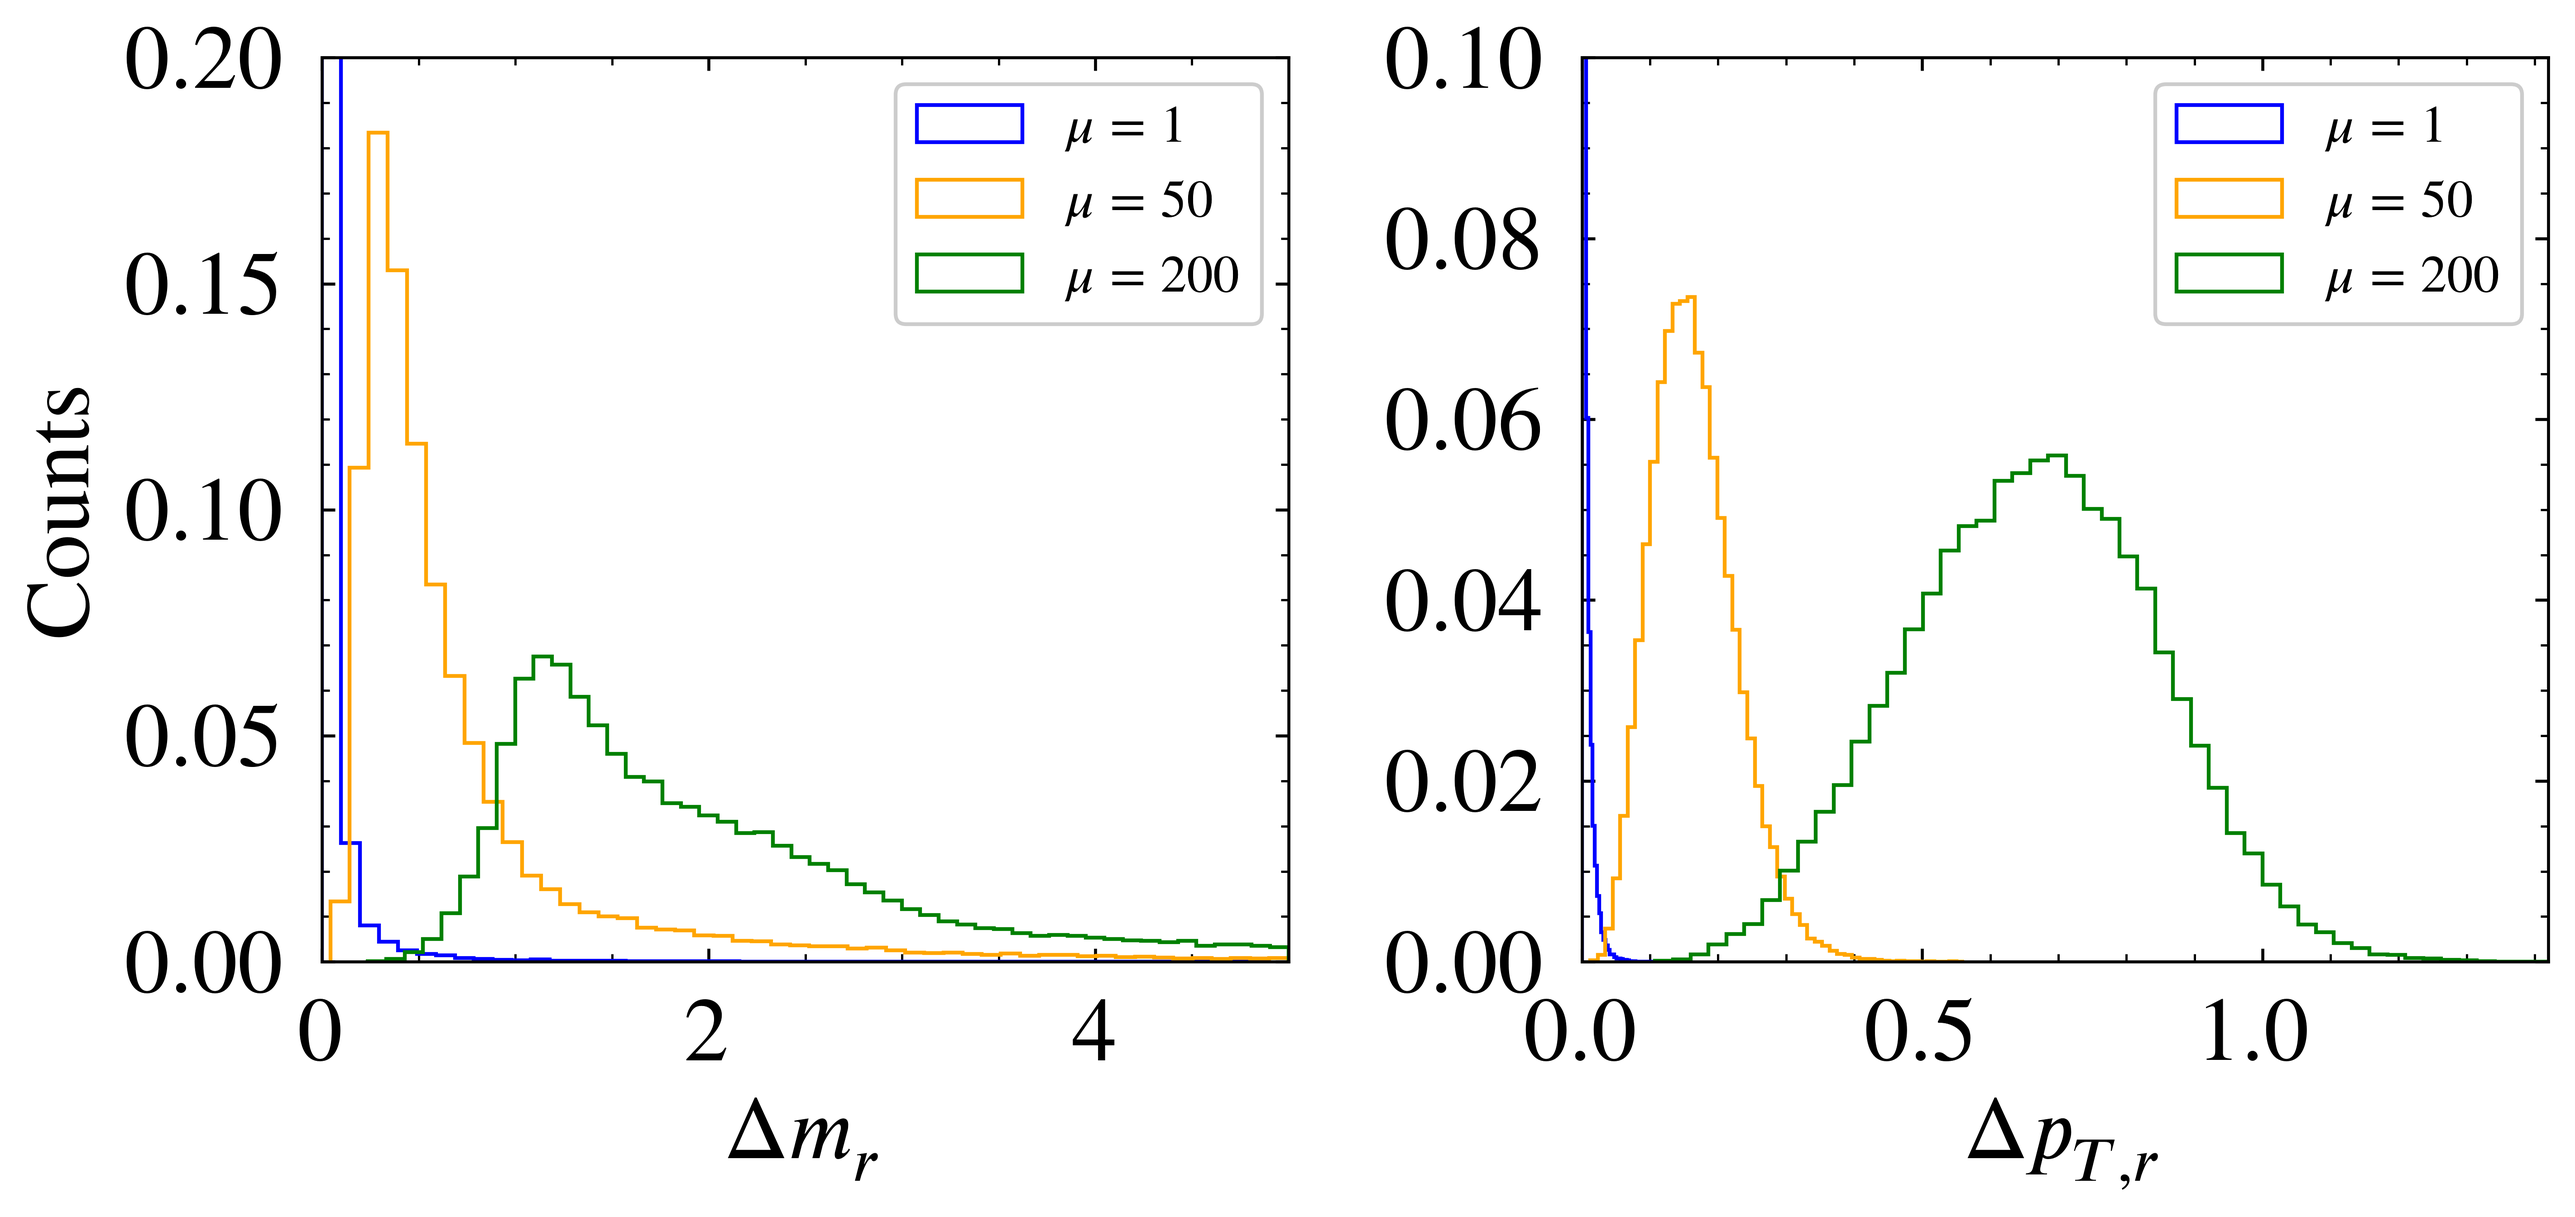
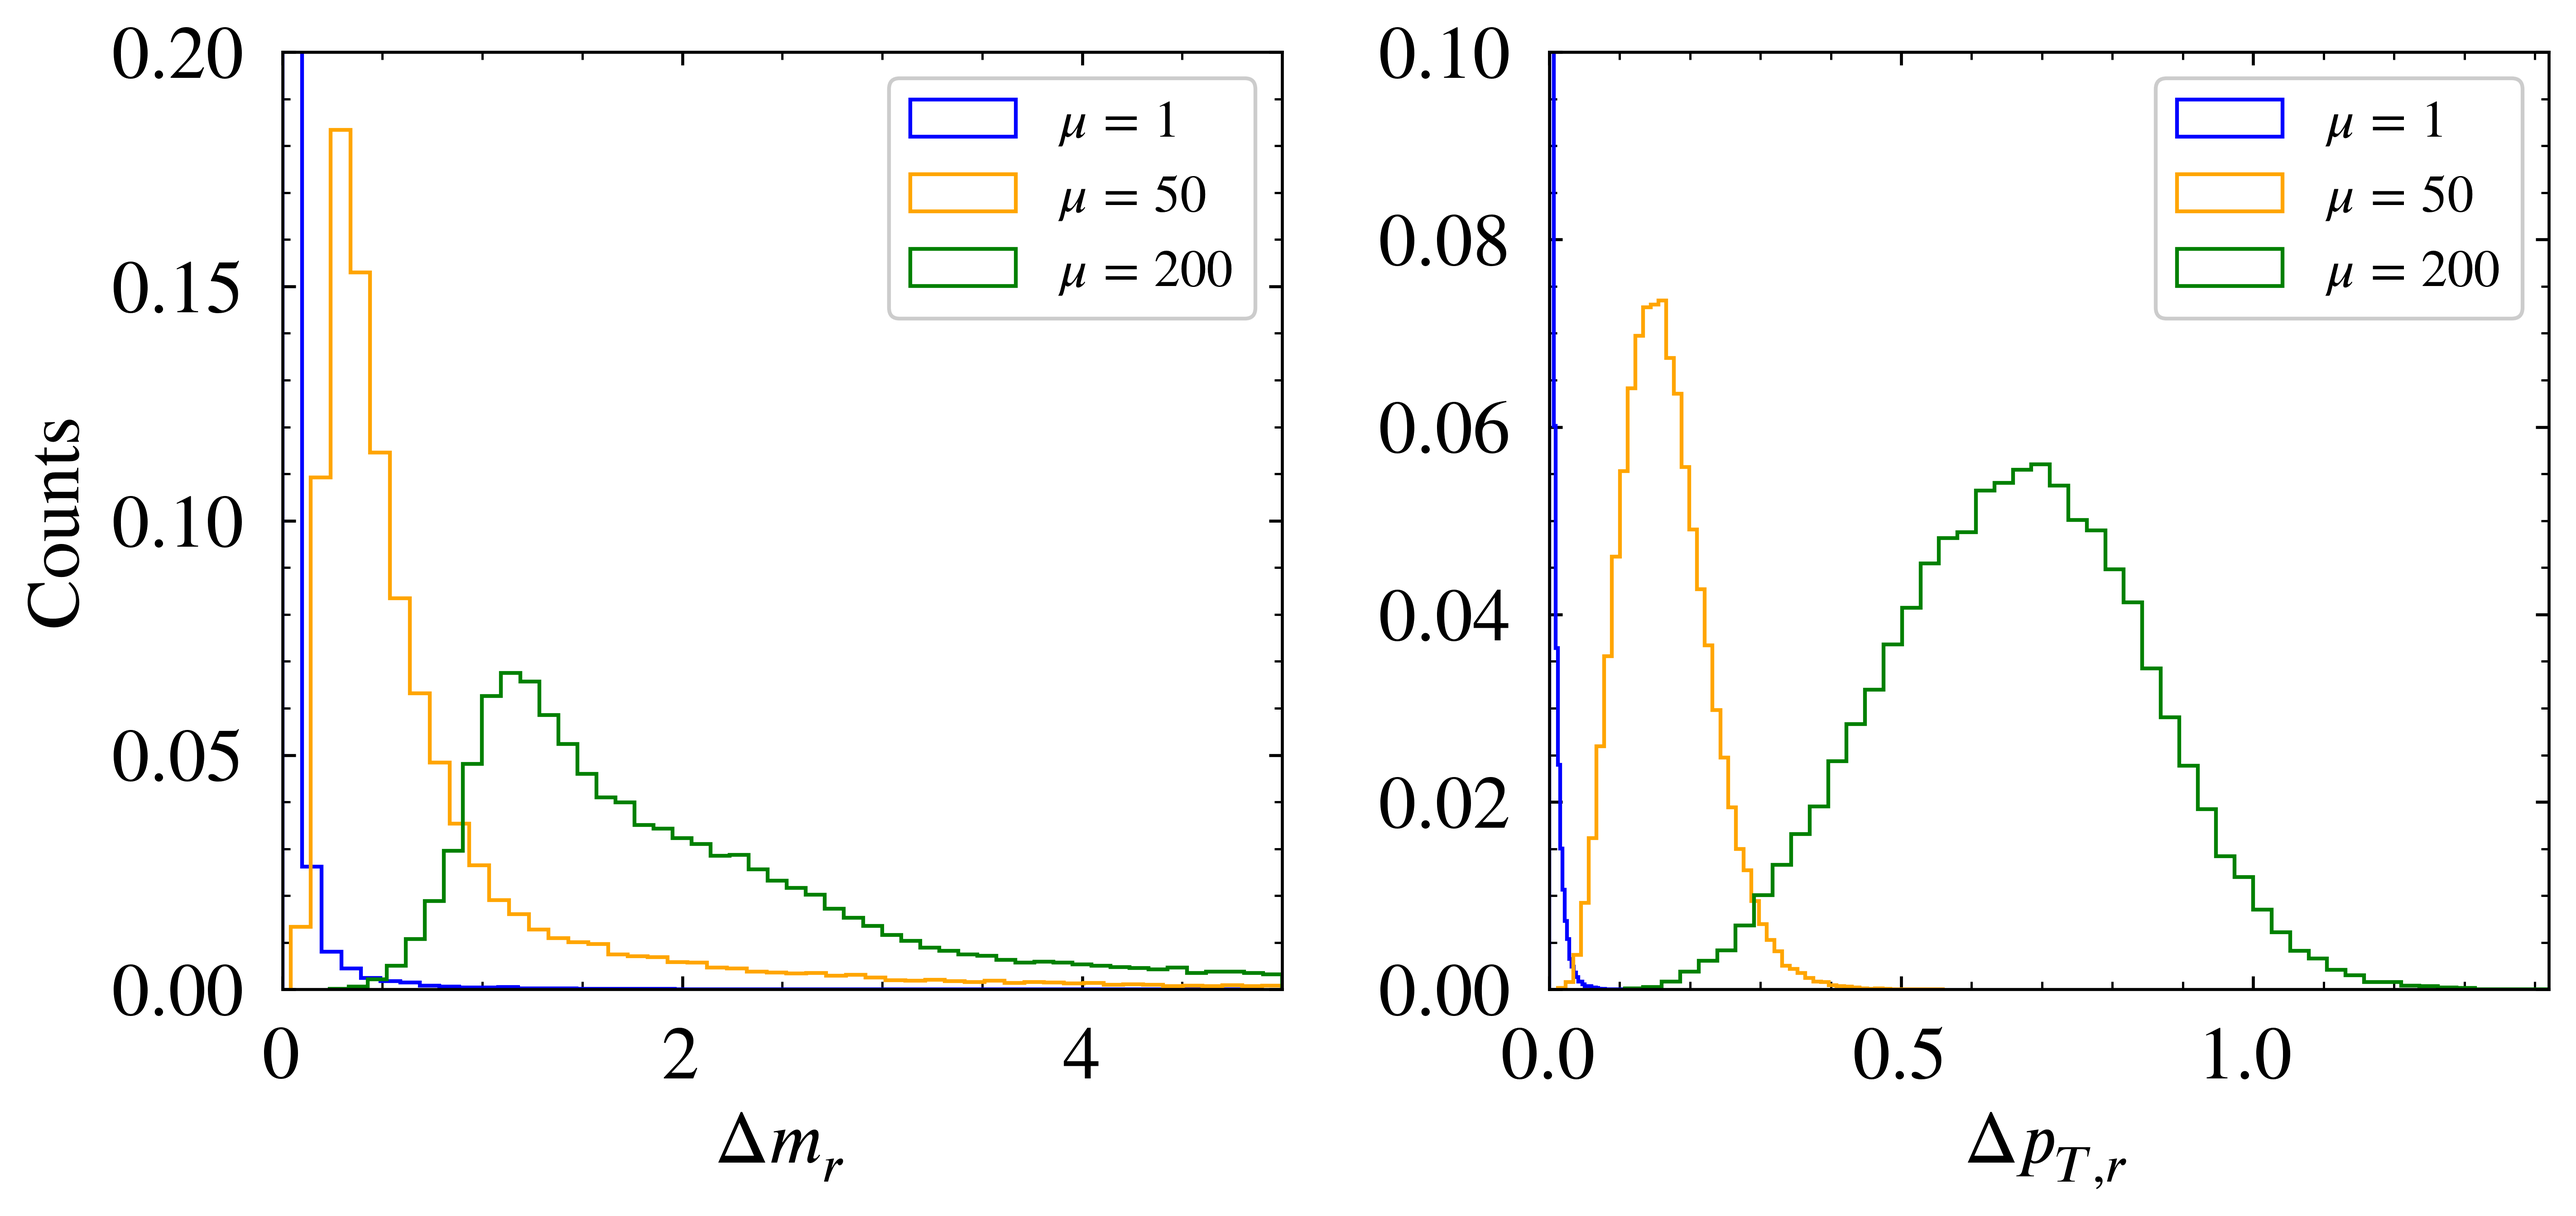
Set font size to 20px

diff --git a/DDPMLHC/config.py b/DDPMLHC/config.py
@@ -22,8 +22,8 @@ TTBAR_NUM = 70903
 MAX_DATA_ROWS = None
 
 BMAP_SQUARE_SIDE_LENGTH = 64
-label_fontsize = 24
-tick_fontsize = 24
+label_fontsize = 20
+tick_fontsize = 20
 
     # 'font.family' : r'Computer Modern Roman',
 MPL_GLOBAL_PARAMS = {
